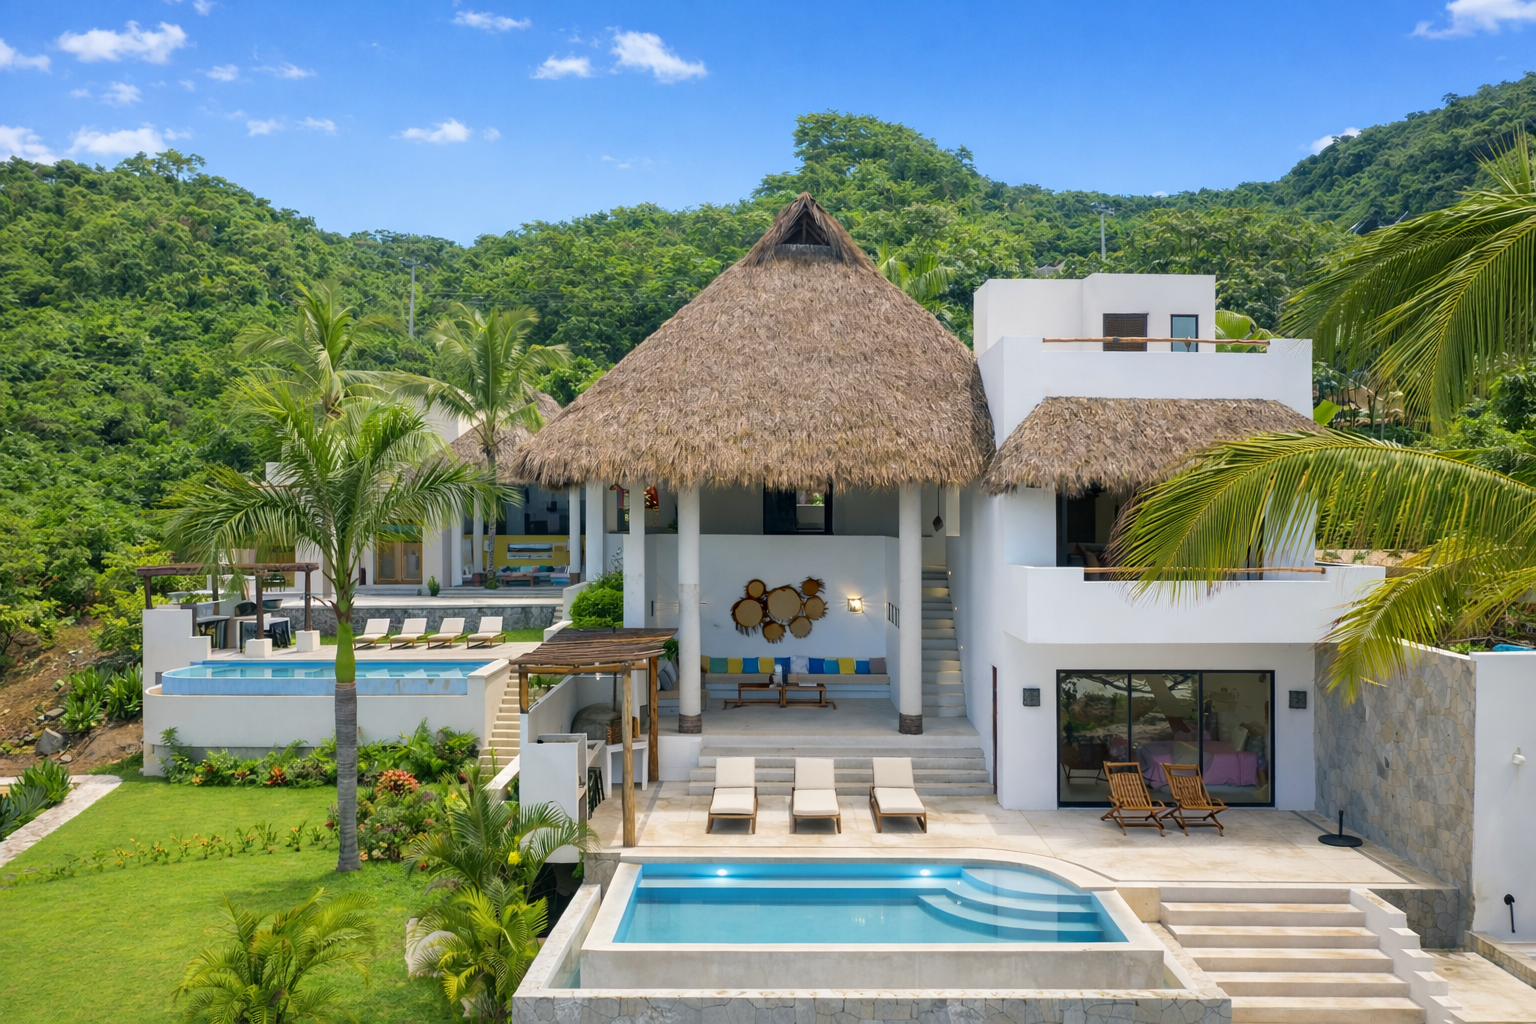
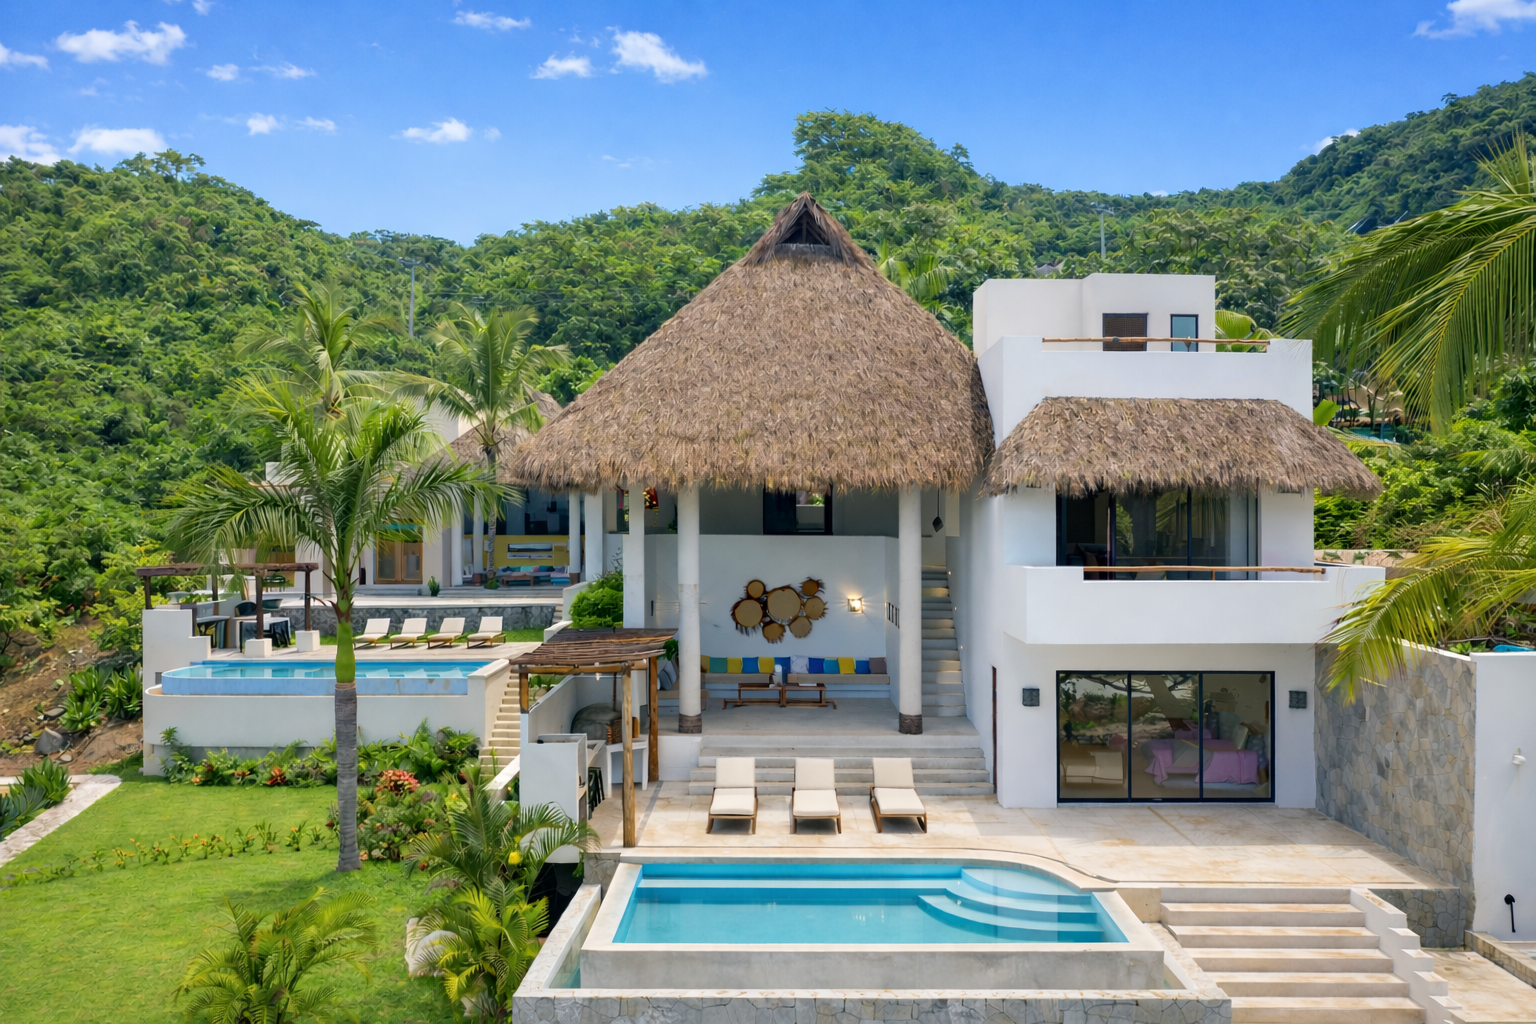
Changes

diff --git a/src/components/home/HeroSection.tsx b/src/components/home/HeroSection.tsx
@@ -15,7 +15,7 @@ export default function HeroSection({ listings }: HeroSectionProps) {
         <img
           src={heroVilla}
           alt="Villas Sempre Avanti beachfront"
-          className="absolute inset-0 w-full h-full object-cover"
+          className="absolute inset-0 w-full h-full object-cover object-[center_40%]"
         />
       ) : (
         <div className="absolute inset-0 bg-primary" />
